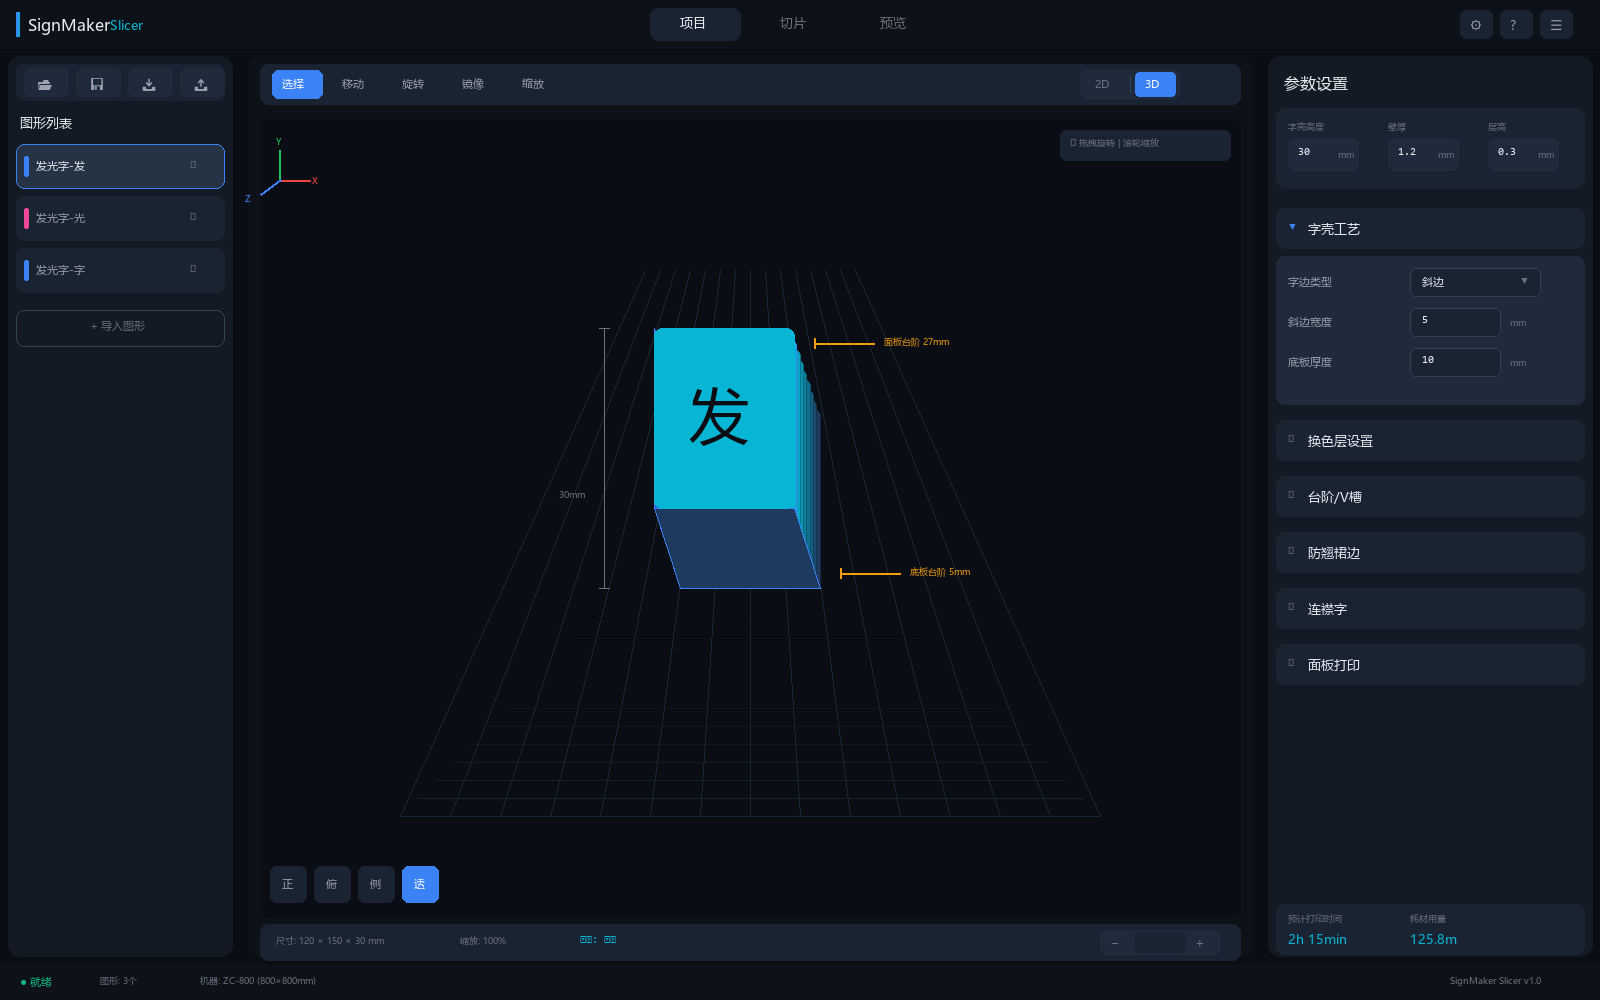
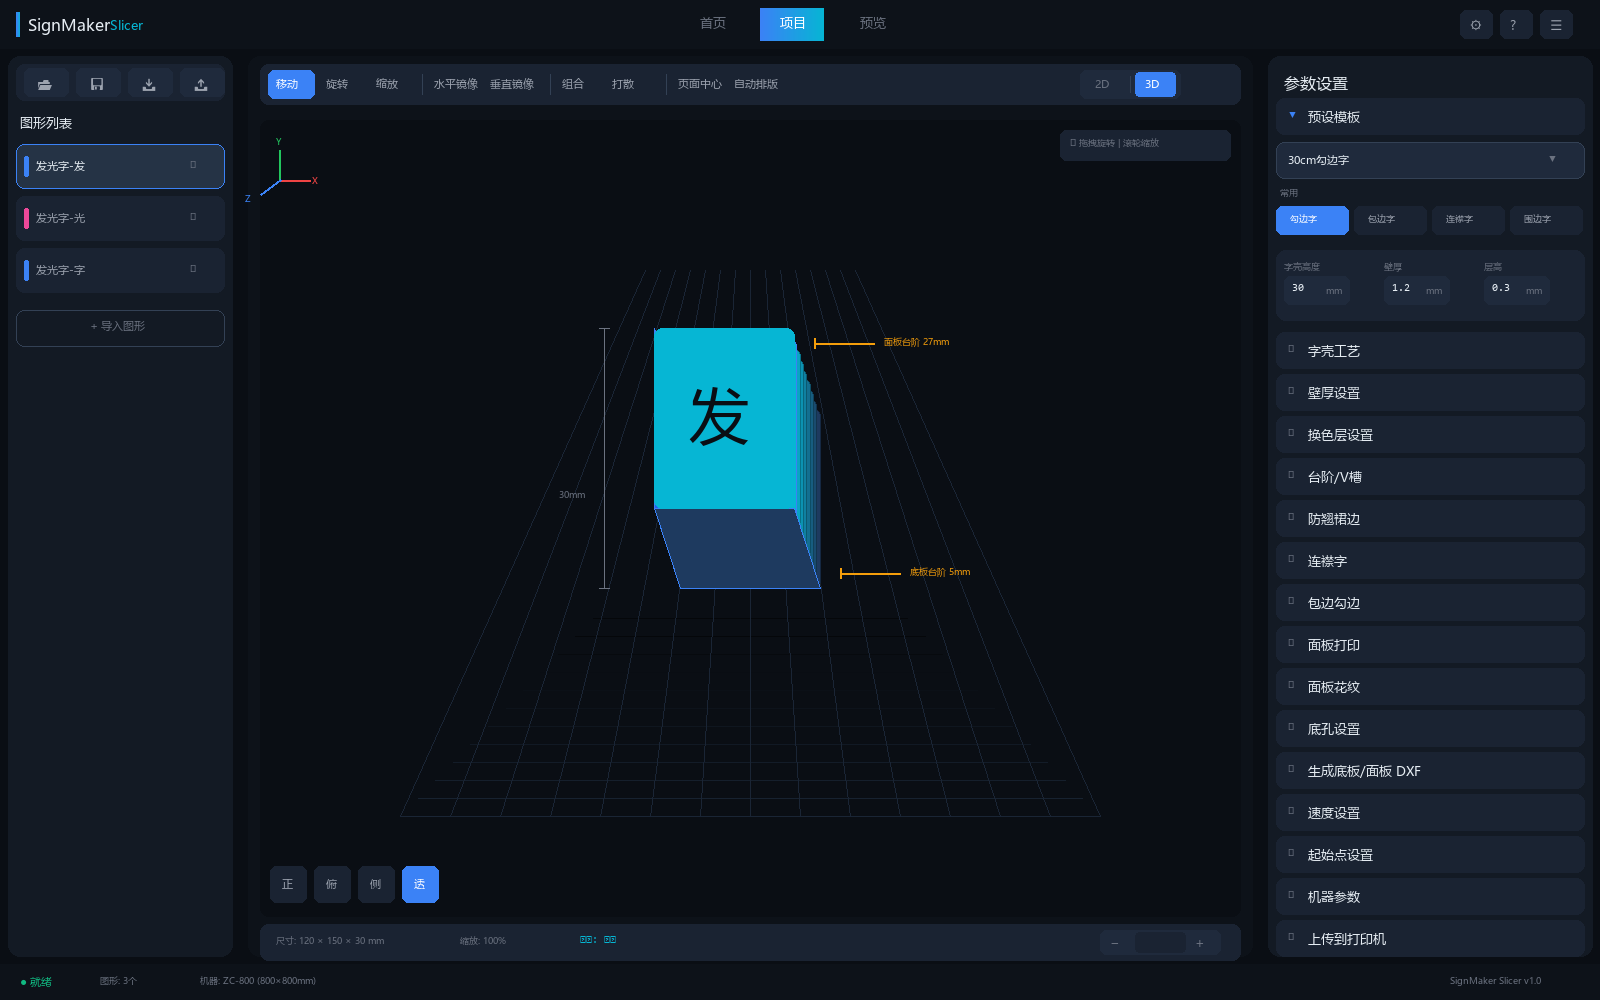
导航栏标签修改为：首页、项目、预览

diff --git a/scripts/generate_ui_project_3d.py b/scripts/generate_ui_project_3d.py
@@ -90,16 +90,16 @@ draw_gradient_rect(16, 12, 4, 24)
 draw_text(28, 14, "SignMaker", font_h1, C["text_primary"])
 draw_text(110, 16, "Slicer", font_h2, C["accent_secondary"])
 
-# 标签页
-tabs = [("项目", True), ("切片", False), ("预览", False)]
-tabs_x = WIDTH // 2 - 150
-for i, (name, active) in enumerate(tabs):
-    tx = tabs_x + i * 100
+# 中央导航标签页 - 参考UI_Home样式
+nav_items = [("首页", False), ("项目", True), ("预览", False)]
+nav_start_x = (WIDTH - 240) // 2
+for i, (name, active) in enumerate(nav_items):
+    nx = nav_start_x + i * 80
     if active:
-        draw_rounded_rect(tx, 8, 90, 32, 8, fill=C["bg_card"])
-        draw_text(tx + 30, 14, name, font_h2, C["text_primary"])
+        draw_gradient_rect(nx, 8, 64, 32)
+        draw_text(nx + 20, 14, name, font_h2, (255, 255, 255))
     else:
-        draw_text(tx + 30, 14, name, font_h2, C["text_muted"])
+        draw_text(nx + 20, 14, name, font_h2, C["text_muted"])
 
 # 右侧按钮
 right_tools = ["⚙", "?", "☰"]
@@ -160,23 +160,54 @@ canvas_h = content_h
 
 draw_rounded_rect(canvas_x + 8, canvas_y + 8, canvas_w - 16, canvas_h - 16, 12, fill=C["bg_primary"])
 
-# 顶部工具栏
+# 顶部画布工具栏
 canvas_toolbar_y = canvas_y + 16
 draw_rounded_rect(canvas_x + 20, canvas_toolbar_y, canvas_w - 40, 40, 8, fill=C["bg_card"])
 
-# 编辑工具
-edit_tools = ["选择", "移动", "旋转", "镜像", "缩放"]
-etx = canvas_x + 32
-for tool in edit_tools:
-    active = tool == "选择"
+# 编辑工具组1 - 变换操作 (移动/旋转/缩放)
+edit_tools_1 = [("移动", True), ("旋转", False), ("缩放", False)]
+etx = canvas_x + 28
+for tool, active in edit_tools_1:
     if active:
-        draw_rounded_rect(etx, canvas_toolbar_y + 6, 50, 28, 6, fill=C["accent_primary"])
-        draw_text(etx + 10, canvas_toolbar_y + 12, tool, font_body, (255,255,255))
+        draw_rounded_rect(etx, canvas_toolbar_y + 6, 46, 28, 6, fill=C["accent_primary"])
+        draw_text(etx + 8, canvas_toolbar_y + 12, tool, font_body, (255,255,255))
     else:
-        draw_text(etx + 10, canvas_toolbar_y + 12, tool, font_body, C["text_secondary"])
-    etx += 60
+        draw_text(etx + 8, canvas_toolbar_y + 12, tool, font_body, C["text_secondary"])
+    etx += 50
 
-# 2D/3D切换 - 3D激活状态
+# 分隔线
+draw.line([(etx + 4, canvas_toolbar_y + 10), (etx + 4, canvas_toolbar_y + 30)], fill=C["border_default"])
+etx += 16
+
+# 编辑工具组2 - 镜像操作
+edit_tools_2 = ["水平镜像", "垂直镜像"]
+for tool in edit_tools_2:
+    tw = len(tool) * 11 + 12
+    draw_text(etx, canvas_toolbar_y + 12, tool, font_body, C["text_secondary"])
+    etx += tw
+
+# 分隔线
+draw.line([(etx + 4, canvas_toolbar_y + 10), (etx + 4, canvas_toolbar_y + 30)], fill=C["border_default"])
+etx += 16
+
+# 编辑工具组3 - 组合操作
+edit_tools_3 = ["组合", "打散"]
+for tool in edit_tools_3:
+    draw_text(etx, canvas_toolbar_y + 12, tool, font_body, C["text_secondary"])
+    etx += 50
+
+# 分隔线
+draw.line([(etx + 4, canvas_toolbar_y + 10), (etx + 4, canvas_toolbar_y + 30)], fill=C["border_default"])
+etx += 16
+
+# 编辑工具组4 - 排版操作
+edit_tools_4 = ["页面中心", "自动排版"]
+for tool in edit_tools_4:
+    tw = len(tool) * 11 + 12
+    draw_text(etx, canvas_toolbar_y + 12, tool, font_body, C["text_secondary"])
+    etx += tw
+
+# 视图切换 (右侧) - 3D激活状态
 view_x = canvas_x + canvas_w - 180
 draw_rounded_rect(view_x, canvas_toolbar_y + 6, 100, 28, 6, fill=C["bg_elevated"])
 draw_text(view_x + 15, canvas_toolbar_y + 12, "2D", font_body, C["text_muted"])
@@ -364,97 +395,95 @@ draw_rounded_rect(zoom_x + 35, info_y + 8, 50, 20, 4, fill=C["bg_card"])
 draw_text(zoom_x + 95, info_y + 10, "+", font_h2, C["text_muted"])
 
 # ============================================
-# 右侧参数面板
+# 右侧属性面板 - 现代卡片式设计
 # ============================================
 right_x = WIDTH - SIDEBAR_RIGHT_W
 draw_rounded_rect(right_x + 8, content_y + 8, SIDEBAR_RIGHT_W - 16, content_h - 16, 12, fill=C["bg_secondary"])
 
+# 面板标题
 draw_text(right_x + 24, content_y + 24, "参数设置", font_h1, C["text_primary"])
 
-# 快速设置卡片
-card_y = content_y + 60
-draw_rounded_rect(right_x + 16, card_y, SIDEBAR_RIGHT_W - 32, 80, 10, fill=C["bg_card"])
+# ============================================
+# 预设模板区域 - 简约下拉选择器
+# ============================================
+preset_y = content_y + 50
 
+# 预设模板标题栏
+draw_rounded_rect(right_x + 16, preset_y, SIDEBAR_RIGHT_W - 32, 36, 8, fill=C["bg_card"])
+draw_text(right_x + 28, preset_y + 10, "▼", font_small, C["accent_primary"])
+draw_text(right_x + 48, preset_y + 10, "预设模板", font_h2, C["text_primary"])
+
+# 简洁下拉选择器
+preset_select_y = preset_y + 44
+draw_rounded_rect(right_x + 16, preset_select_y, SIDEBAR_RIGHT_W - 32, 36, 8, fill=C["bg_elevated"], outline=C["border_default"])
+draw_text(right_x + 28, preset_select_y + 10, "30cm勾边字", font_body, C["text_primary"])
+draw_text(right_x + SIDEBAR_RIGHT_W - 52, preset_select_y + 10, "▼", font_small, C["text_muted"])
+
+# 常用模板快捷标签
+tag_y = preset_select_y + 44
+draw_text(right_x + 20, tag_y, "常用", font_small, C["text_muted"])
+
+preset_tags = ["勾边字", "包边字", "连襟字", "围边字"]
+tag_x = right_x + 16
+tag_row_y = tag_y + 20
+for i, tag in enumerate(preset_tags):
+    tag_w = 72
+    if i == 0:  # 选中状态
+        draw_rounded_rect(tag_x, tag_row_y, tag_w, 28, 6, fill=C["accent_primary"])
+        draw_text(tag_x + 14, tag_row_y + 6, tag, font_small, (255, 255, 255))
+    else:
+        draw_rounded_rect(tag_x, tag_row_y, tag_w, 28, 6, fill=C["bg_card"])
+        draw_text(tag_x + 14, tag_row_y + 6, tag, font_small, C["text_secondary"])
+    tag_x += tag_w + 6
+
+# 快速设置卡片
+card_y = tag_row_y + 44
+draw_rounded_rect(right_x + 16, card_y, SIDEBAR_RIGHT_W - 32, 70, 10, fill=C["bg_card"])
+
+# 快速参数 - 紧凑布局
 quick_params = [
     ("字壳高度", "30", "mm"),
     ("壁厚", "1.2", "mm"),
     ("层高", "0.3", "mm"),
 ]
-qp_x = right_x + 28
+qp_x = right_x + 24
 for label, value, unit in quick_params:
-    draw_text(qp_x, card_y + 12, label, font_small, C["text_muted"])
-    draw_rounded_rect(qp_x, card_y + 30, 70, 32, 6, fill=C["bg_elevated"])
-    draw_text(qp_x + 10, card_y + 38, value, font_mono, C["text_primary"])
-    draw_text(qp_x + 50, card_y + 40, unit, font_small, C["text_muted"])
+    draw_text(qp_x, card_y + 10, label, font_small, C["text_muted"])
+    draw_rounded_rect(qp_x, card_y + 26, 65, 28, 6, fill=C["bg_elevated"])
+    draw_text(qp_x + 8, card_y + 32, value, font_mono, C["text_primary"])
+    draw_text(qp_x + 42, card_y + 34, unit, font_small, C["text_muted"])
     qp_x += 100
 
-# 参数分组
+# 可折叠参数组 - 全部折叠只显示标题
 sections = [
-    ("字壳工艺", True, [
-        ("字边类型", "斜边", "select"),
-        ("斜边宽度", "5", "mm"),
-        ("底板厚度", "10", "mm"),
-    ]),
+    ("字壳工艺", False, []),
+    ("壁厚设置", False, []),
     ("换色层设置", False, []),
     ("台阶/V槽", False, []),
     ("防翘裙边", False, []),
     ("连襟字", False, []),
+    ("包边勾边", False, []),
     ("面板打印", False, []),
+    ("面板花纹", False, []),
+    ("底孔设置", False, []),
+    ("生成底板/面板 DXF", False, []),
+    ("速度设置", False, []),
+    ("起始点设置", False, []),
+    ("机器参数", False, []),
+    ("上传到打印机", False, []),
 ]
 
-section_y = card_y + 100
+section_y = card_y + 82
 for section_name, expanded, params in sections:
-    draw_rounded_rect(right_x + 16, section_y, SIDEBAR_RIGHT_W - 32, 40, 8, fill=C["bg_card"])
+    # 分组标题
+    draw_rounded_rect(right_x + 16, section_y, SIDEBAR_RIGHT_W - 32, 36, 8, fill=C["bg_card"])
 
+    # 展开/收起指示器
     indicator = "▼" if expanded else "▶"
-    draw_text(right_x + 28, section_y + 12, indicator, font_small, C["accent_primary"] if expanded else C["text_muted"])
-    draw_text(right_x + 48, section_y + 12, section_name, font_h2, C["text_primary"])
+    draw_text(right_x + 28, section_y + 10, indicator, font_small, C["accent_primary"] if expanded else C["text_muted"])
+    draw_text(right_x + 48, section_y + 10, section_name, font_h2, C["text_primary"])
 
-    section_y += 48
-
-    if expanded and params:
-        draw_rounded_rect(right_x + 16, section_y, SIDEBAR_RIGHT_W - 32, len(params) * 44 + 16, 8, fill=C["bg_elevated"])
-
-        param_y = section_y + 12
-        for label, value, unit in params:
-            draw_text(right_x + 28, param_y + 6, label, font_body, C["text_secondary"])
-
-            if unit == "select":
-                draw_rounded_rect(right_x + 150, param_y, 130, 28, 6, fill=C["bg_card"], outline=C["border_default"])
-                draw_text(right_x + 162, param_y + 6, value, font_body, C["text_primary"])
-                draw_text(right_x + 260, param_y + 6, "▼", font_small, C["text_muted"])
-            else:
-                draw_rounded_rect(right_x + 150, param_y, 90, 28, 6, fill=C["bg_card"], outline=C["border_default"])
-                draw_text(right_x + 162, param_y + 6, value, font_mono, C["text_primary"])
-                draw_text(right_x + 250, param_y + 8, unit, font_small, C["text_muted"])
-
-            param_y += 40
-
-        section_y += len(params) * 44 + 24
-
-    section_y += 8
-
-# 输出统计
-footer_y = HEIGHT - FOOTER_H - 60
-draw_rounded_rect(right_x + 16, footer_y, SIDEBAR_RIGHT_W - 32, 50, 8, fill=C["bg_card"])
-draw_text(right_x + 28, footer_y + 8, "预计打印时间", font_small, C["text_muted"])
-draw_text(right_x + 28, footer_y + 26, "2h 15min", font_h2, C["accent_secondary"])
-draw_text(right_x + 150, footer_y + 8, "耗材用量", font_small, C["text_muted"])
-draw_text(right_x + 150, footer_y + 26, "125.8m", font_h2, C["accent_secondary"])
-
-# 主按钮
-btn_y = footer_y + 60
-draw_gradient_rect(right_x + 16, btn_y, SIDEBAR_RIGHT_W - 32, 44)
-draw_rounded_rect(right_x + 16, btn_y, SIDEBAR_RIGHT_W - 32, 44, 10, outline=None)
-draw_text(right_x + 100, btn_y + 12, "生成 G-Code", font_h2, (255,255,255))
-
-# 次要按钮
-btn2_y = btn_y + 54
-draw_rounded_rect(right_x + 16, btn2_y, 150, 38, 8, fill=C["bg_card"], outline=C["border_default"])
-draw_text(right_x + 50, btn2_y + 10, "预览切片", font_body, C["text_secondary"])
-
-draw_rounded_rect(right_x + 176, btn2_y, 150, 38, 8, fill=C["bg_card"], outline=C["border_default"])
-draw_text(right_x + 215, btn2_y + 10, "导出文件", font_body, C["text_secondary"])
+    section_y += 42
 
 # ============================================
 # 底部状态栏

diff --git a/scripts/generate_ui_slice_preview.py b/scripts/generate_ui_slice_preview.py
@@ -73,16 +73,22 @@ def create_base_layout(draw, active_tab="project"):
     draw.text((28, 14), "SignMaker", font=font_h1, fill=C["text_primary"])
     draw.text((110, 16), "Slicer", font=font_h2, fill=C["accent_secondary"])
 
-    # 标签页
-    tabs = [("项目", "project"), ("切片", "slice"), ("预览", "preview")]
-    tabs_x = WIDTH // 2 - 150
-    for i, (name, key) in enumerate(tabs):
-        tx = tabs_x + i * 100
+    # 中央导航标签页 - 参考UI_Home样式
+    nav_items = [("首页", None), ("项目", "project"), ("预览", "preview")]
+    nav_start_x = (WIDTH - 240) // 2
+    for i, (name, key) in enumerate(nav_items):
+        nx = nav_start_x + i * 80
         if key == active_tab:
-            draw.rounded_rectangle([tx, 8, tx + 90, 40], radius=8, fill=C["bg_card"])
-            draw.text((tx + 30, 14), name, font=font_h2, fill=C["text_primary"])
+            # 渐变填充按钮
+            for px in range(64):
+                ratio = px / 64
+                r = int(C["accent_primary"][0] + (C["accent_secondary"][0] - C["accent_primary"][0]) * ratio)
+                g = int(C["accent_primary"][1] + (C["accent_secondary"][1] - C["accent_primary"][1]) * ratio)
+                b = int(C["accent_primary"][2] + (C["accent_secondary"][2] - C["accent_primary"][2]) * ratio)
+                draw.line([(nx + px, 8), (nx + px, 40)], fill=(r, g, b))
+            draw.text((nx + 20, 14), name, font=font_h2, fill=(255, 255, 255))
         else:
-            draw.text((tx + 30, 14), name, font=font_h2, fill=C["text_muted"])
+            draw.text((nx + 20, 14), name, font=font_h2, fill=C["text_muted"])
 
     # 右侧按钮
     right_tools = ["⚙", "?", "☰"]
@@ -565,22 +571,10 @@ if __name__ == "__main__":
     output_dir = os.path.join(os.path.dirname(__file__), "..", "docs")
     os.makedirs(output_dir, exist_ok=True)
 
-    # 切片模式
-    slice_img = generate_slice_mode()
-    slice_path = os.path.join(output_dir, "UI_Slice_Mode.png")
-    slice_img.save(slice_path, "PNG", quality=95)
-    print(f"Saved: {slice_path}")
-
-    root_slice = os.path.join(os.path.dirname(__file__), "..", "UI_Slice_Mode.png")
-    slice_img.save(root_slice, "PNG", quality=95)
-
     # 预览模式
     preview_img = generate_preview_mode()
     preview_path = os.path.join(output_dir, "UI_Preview_Mode.png")
     preview_img.save(preview_path, "PNG", quality=95)
     print(f"Saved: {preview_path}")
-
-    root_preview = os.path.join(os.path.dirname(__file__), "..", "UI_Preview_Mode.png")
-    preview_img.save(root_preview, "PNG", quality=95)
 
     print("Done!")

diff --git a/scripts/generate_ui_modern.py b/scripts/generate_ui_modern.py
@@ -114,16 +114,16 @@ draw_gradient_rect(16, 12, 4, 24)
 draw_text(28, 14, "SignMaker", font_h1, C["text_primary"])
 draw_text(110, 16, "Slicer", font_h2, C["accent_secondary"])
 
-# 中央标签页 - 文件/项目切换
-tabs_x = WIDTH // 2 - 150
-tab_items = [("项目", True), ("切片", False), ("预览", False)]
-for i, (name, active) in enumerate(tab_items):
-    tx = tabs_x + i * 100
+# 中央导航标签页 - 参考UI_Home样式
+nav_items = [("首页", False), ("项目", True), ("预览", False)]
+nav_start_x = (WIDTH - 240) // 2
+for i, (name, active) in enumerate(nav_items):
+    nx = nav_start_x + i * 80
     if active:
-        draw_rounded_rect(tx, 8, 90, 32, 8, fill=C["bg_card"])
-        draw_text(tx + 30, 14, name, font_h2, C["text_primary"])
+        draw_gradient_rect(nx, 8, 64, 32, 14)
+        draw_text(nx + 20, 14, name, font_h2, (255, 255, 255))
     else:
-        draw_text(tx + 30, 14, name, font_h2, C["text_muted"])
+        draw_text(nx + 20, 14, name, font_h2, C["text_muted"])
 
 # 右侧工具按钮
 right_tools = ["⚙", "?", "☰"]
@@ -358,7 +358,10 @@ sections = [
     ("面板花纹", False, []),
     ("底孔设置", False, []),
     ("生成底板/面板 DXF", False, []),
+    ("速度设置", False, []),
+    ("起始点设置", False, []),
     ("机器参数", False, []),
+    ("上传到打印机", False, []),
 ]
 
 section_y = card_y + 82

diff --git a/scripts/generate_ui_home.py b/scripts/generate_ui_home.py
@@ -149,8 +149,8 @@ draw_text(logo_x + 14, 17, "SignMaker", font_h2, C["text_primary"])
 draw_text(logo_x + 110, 19, "Slicer", font_h3, C["accent_cyan"])
 
 # 中央导航
-nav_items = [("首页", True), ("项目", False), ("切片", False), ("设置", False)]
-nav_start_x = (WIDTH - 320) // 2
+nav_items = [("首页", True), ("项目", False), ("预览", False)]
+nav_start_x = (WIDTH - 240) // 2
 
 for i, (name, active) in enumerate(nav_items):
     nx = nav_start_x + i * 80
